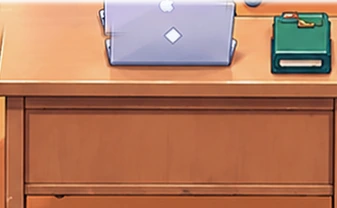
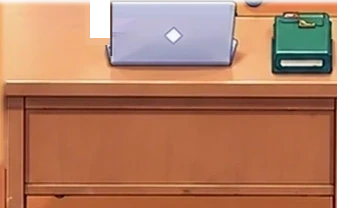
🖥 선별팀 중복 노트북 제거·직원 대화창 결재 1·2·3 선택지/바로가기·캡틴 실시간 상태 표시 배지 추가

diff --git a/dashboard/static/office-anime/office-anime.js b/dashboard/static/office-anime/office-anime.js
@@ -81,7 +81,7 @@
       im.onerror = () => res();
       im.src = url;
     });
-    const jobs = [load(imgs, 'bg', '/static/office-anime/assets/bg-office.webp?v=hq4k5')];
+    const jobs = [load(imgs, 'bg', '/static/office-anime/assets/bg-office.webp?v=hq4k6')];
     for (const [id, cfg] of Object.entries(CHARS)) {
       imgs.walk[id] = { east: [], front: [], back: [], se: [], ne: [], greet: [], coffee: [], kick: [], water: [], clean: [], dance: [], sweep: [], brew: [], carry: [], serve: [] };
       const dirs = id === 'captain' ? ['east', 'front', 'back', 'se', 'ne', 'greet', 'coffee', 'kick']
@@ -115,7 +115,7 @@
       }
     }
     for (const p of PROPS) {
-      jobs.push(load(imgs.masks, p.key, `/static/office-anime/assets/masks/${p.key}.webp?v=hq4k`));
+      jobs.push(load(imgs.masks, p.key, `/static/office-anime/assets/masks/${p.key}.webp?v=hq4k2`));
     }
     return Promise.all(jobs).then(() => imgs);
   }
@@ -624,7 +624,8 @@
              <div class="oa-quest" data-q="${id}" hidden>!</div>
              <div class="oa-bub" data-bub="${id}" hidden></div>`
       ).join('') +
-      `<div class="oa-cap-hp" data-cap-hp title="클로드 잔여량 · 위: 5시간(녹색) / 아래: 주간(파랑)">
+      `<button type="button" class="oa-cap-status" data-cap-status title="캡틴 실시간 업무·결재 상태 (클릭 시 바로 이동)">🟢 대기 중</button>
+       <div class="oa-cap-hp" data-cap-hp title="클로드 잔여량 · 위: 5시간(녹색) / 아래: 주간(파랑)">
          <div class="oa-hp-track"><div class="oa-hp-fill h5" data-hp-5h style="width:100%"></div></div>
          <div class="oa-hp-track"><div class="oa-hp-fill wk" data-hp-wk style="width:100%"></div></div>
        </div>
@@ -634,10 +635,25 @@
          <button type="button" class="oa-cr-item i2" data-cr="coffee">☕ 커피 휴식</button>
          <button type="button" class="oa-cr-item i3" data-cr="sit">🪑 대표석 복귀</button>
        </div>`;
+    const capStatusEl = hud.querySelector('[data-cap-status]');
     const capHpEl = hud.querySelector('[data-cap-hp]');
     const capHp5h = hud.querySelector('[data-hp-5h]');
     const capHpWk = hud.querySelector('[data-hp-wk]');
     const capRingEl = hud.querySelector('[data-cap-ring]');
+    let latestOrders = [], pendingApprovals = [];
+    capStatusEl?.addEventListener('click', e => {
+      e.stopPropagation();
+      SFX.tap();
+      if (pendingApprovals.length && opts.onOpenOrder) {
+        opts.onOpenOrder(pendingApprovals[0].id);
+      } else if (pendingApprovals.length) {
+        openTalkModal('claude');
+      } else if (latestOrders.length && opts.onOpenOrder) {
+        opts.onOpenOrder(latestOrders[0].id);
+      } else {
+        setCapRing(!capRingOpen);
+      }
+    });
     let capRingOpen = false;
     let capRingOrigin = { x: 0, y: 0 };
     function setCapRing(open) {
@@ -660,6 +676,10 @@
       if (act === 'greet') playCaptainAction('greet');
       else if (act === 'coffee') playCaptainAction('coffee');
       else if (act === 'sit') sitCaptainBack();
+      else if (act === 'approval' && pendingApprovals.length) {
+        if (opts.onOpenOrder) opts.onOpenOrder(pendingApprovals[0].id);
+        else openTalkModal('claude');
+      }
       else if (act === 'newshop') {
         openTalkModal('captain');
         const inp = modal.querySelector('input[name="msg"]');
@@ -1718,11 +1738,16 @@
         }
       }
 
-      // 캡틴 머리 위 RPG HP/MP 피통 게이지 + 타원형 링 메뉴 위치 추적 (움직이면 링 자동 닫힘!)
+      // 캡틴 머리 위 RPG HP/MP 피통 게이지 + 실시간 상태 표시 배지 + 타원형 링 메뉴 위치 추적
       if (capHpEl) {
         const capStanding = (cap.mode === 'walk' || cap.mode === 'stand' || cap.mode === 'emote');
+        const hpTop = Math.max(5.0, cap.y - (capStanding ? standPct('captain') + 0.6 : 12.2));
         capHpEl.style.left = `${cap.x}%`;
-        capHpEl.style.top  = `${Math.max(1.5, cap.y - (capStanding ? standPct('captain') + 0.6 : 13.0))}%`; // 서 있을 땐 머리 위(키 16.1% + 0.6), 11-24 목에 걸리던 것 수정
+        capHpEl.style.top  = `${hpTop}%`;
+        if (capStatusEl) {
+          capStatusEl.style.left = `${cap.x}%`;
+          capStatusEl.style.top  = `${Math.max(0.8, hpTop - 4.0)}%`;
+        }
         if (capRingEl) {
           capRingEl.style.left = `${cap.x}%`;
           capRingEl.style.top  = `${Math.max(8, cap.y - (capStanding ? standPct('captain') + 1.5 : 13.5))}%`;
@@ -1893,10 +1918,72 @@
         }
       }
 
+      const escHtml = s => String(s || '').replace(/[&<>"']/g, m => ({ '&': '&amp;', '<': '&lt;', '>': '&gt;', '"': '&quot;', "'": '&#39;' }[m]));
+      const parseApprovalChoices = ord => {
+        if (!ord) return [];
+        const lastAi = [...(ord.turns || [])].reverse().find(t => t.by === 'claude')?.text || '';
+        const src = `${ord.approval || ''}\n${lastAi}`;
+        const found = [];
+        const seen = new Set();
+        // 1) "1. ...", "2) ...", "① ..." 또는 "가-1 ..." 패턴 파싱
+        for (const raw of src.split(/\r?\n/)) {
+          const line = raw.trim();
+          let m = line.match(/^(?:([1-4])[.)]|([①②③④]))\s+(.{2,60})/);
+          if (m) {
+            const circ = { '①': '1', '②': '2', '③': '3', '④': '4' };
+            const num = m[1] || circ[m[2]];
+            const lbl = m[3].replace(/\*\*/g, '').trim().slice(0, 34);
+            if (!seen.has(num)) { seen.add(num); found.push({ num, label: lbl, replyText: `${num}번으로 진행해 주세요 (${lbl})`, approve: false }); }
+            continue;
+          }
+          m = line.match(/^([가나다라]-[1-4])[.:)\s]+(.{2,60})/);
+          if (m && found.length < 4) {
+            const key = m[1], lbl = m[2].replace(/\*\*/g, '').trim().slice(0, 30);
+            if (!seen.has(key)) { seen.add(key); found.push({ num: String(found.length + 1), label: `${key} ${lbl}`, replyText: key, approve: false }); }
+          }
+        }
+        if (found.length >= 2) return found.slice(0, 4);
+        // 2) 번호 선택지가 따로 없으면 기본 1·2·3 결재 선택지 제공
+        const isDeployOnly = !ord.approval && ord.deploy?.length && ord.deployState !== 'done';
+        return [
+          isDeployOnly
+            ? { num: '1', label: '배포 확정 창 바로 열기', action: 'openOrder' }
+            : { num: '1', label: '✅ 확정 진행 (승인)', replyText: '확정합니다. 진행해 주세요.', approve: true },
+          { num: '2', label: '✏ 수정 요청 (직접 입력)', action: 'edit' },
+          { num: '3', label: '📋 결재 내용 자세히 보기', action: 'openOrder' },
+        ];
+      };
+
+      const OA_TO_DASH = {
+        captain: 'captain', claude: 'claude', finder: 'finder', agy: 'agy',
+        reader: 'menu-reader', inspector: 'codex', auditor: 'reviewer',
+        translator: 'polisher', staffing: 'staffing', sorter: 'sorting'
+      };
+      const dashId = OA_TO_DASH[hit] || hit;
+      // 이 직원에게 걸려 있는 결재 대기 건 (비서실장/캡틴은 첫 결재 건, 다른 직원은 본인 참여 결재 건)
+      const npcAppr = pendingApprovals.find(o => (hit === 'claude' || hit === 'captain') || (o.worked || []).includes(dashId))
+        || (hit === 'claude' ? pendingApprovals[0] : null);
+      const apprChoices = npcAppr ? parseApprovalChoices(npcAppr) : [];
+      const apprHtml = npcAppr ? `
+        <div class="oa-m-appr">
+          <div class="oa-appr-head">
+            <span class="oa-appr-badge">🔔 결재 대기</span>
+            <strong class="oa-appr-title">${escHtml((npcAppr.title || npcAppr.text || '결재 건').slice(0, 26))}</strong>
+            <button type="button" class="oa-appr-go" data-open-order="${escHtml(npcAppr.id)}">📋 결재 내용</button>
+          </div>
+          ${npcAppr.approval ? `<p class="oa-appr-desc">${escHtml(npcAppr.approval.slice(0, 95))}</p>` : (npcAppr.deploy?.length ? `<p class="oa-appr-desc">배포 대기: ${escHtml(npcAppr.deploy.join(', '))}</p>` : '')}
+          <div class="oa-appr-choices">
+            ${apprChoices.map((ch, idx) => `<button type="button" class="oa-appr-opt" data-appr-idx="${idx}"><span class="oa-appr-num">${escHtml(ch.num)}</span><span class="oa-appr-lbl">${escHtml(ch.label)}</span></button>`).join('')}
+          </div>
+        </div>` : '';
+
+      const fallbackOrder = npcAppr || latestOrders.find(o => (o.worked || []).includes(dashId)) || latestOrders[0];
+      const orderBtn = (opts.onOpenOrder && fallbackOrder)
+        ? `<button type="button" class="oa-q-btn appr-link" data-open-order="${escHtml(fallbackOrder.id)}">📋 ${npcAppr ? '결재 내용 보기' : '최근 결재·지시 보기'}</button>` : '';
       const detailBtn = opts.onOpenDetail
-        ? `<button type="button" class="oa-q-btn detail" data-open-detail>📋 상세 패널 열기</button>` : '';
+        ? `<button type="button" class="oa-q-btn detail" data-open-detail>👤 직원 상세</button>` : '';
       const q = activeQuests[hit];
-      const questHtml = q ? `
+      const questHtml = (!npcAppr && q) ? `
         <div class="oa-m-quest ${q.type === 'ask' ? 'done' : ''}">
           <span class="oa-m-quest-txt">${q.type === 'exc' ? '❗ [퀘스트] ' : '✅ [완료 보고] '}${q.title}</span>
           <button type="button" class="oa-m-quest-btn" data-quest-act>${q.actionLabel}</button>
@@ -1912,8 +1999,10 @@
           </div>
           <button type="button" data-close>×</button>
         </div>
+        ${apprHtml}
         ${questHtml}
         <div class="oa-m-quick">
+          ${orderBtn}
           ${dcfg.quick.map(q => `<button type="button" class="oa-q-btn" data-q="${q}">${q}</button>`).join('')}
           ${detailBtn}
         </div>
@@ -1923,15 +2012,52 @@
         </form>
         <div class="oa-m-res" data-res hidden></div>`;
 
-      const OA_TO_DASH = {
-        captain: 'captain', claude: 'claude', finder: 'finder', agy: 'agy',
-        reader: 'menu-reader', inspector: 'codex', auditor: 'reviewer',
-        translator: 'polisher', staffing: 'staffing', sorter: 'sorting'
-      };
+      modal.querySelectorAll('[data-open-order]').forEach(btn => {
+        btn.addEventListener('click', () => {
+          SFX.tap();
+          const oid = btn.dataset.openOrder;
+          closeTalkModal(false);
+          if (opts.onOpenOrder && oid) opts.onOpenOrder(oid);
+          else if (opts.onOpenDetail) opts.onOpenDetail(dashId);
+        });
+      });
+      modal.querySelectorAll('[data-appr-idx]').forEach(btn => {
+        btn.addEventListener('click', async () => {
+          const ch = apprChoices[Number(btn.dataset.apprIdx)];
+          if (!ch || !npcAppr) return;
+          if (ch.action === 'openOrder') {
+            SFX.tap();
+            closeTalkModal(false);
+            if (opts.onOpenOrder) opts.onOpenOrder(npcAppr.id);
+            return;
+          }
+          if (ch.action === 'edit') {
+            SFX.tap();
+            const inp = modal.querySelector('input[name="msg"]');
+            if (inp) { inp.value = '수정 요청: '; inp.focus(); }
+            const resEl = modal.querySelector('[data-res]');
+            if (resEl) { resEl.hidden = false; resEl.textContent = '✏ 수정할 내용을 입력하고 [지시 전달]을 눌러주세요!'; }
+            return;
+          }
+          const resEl = modal.querySelector('[data-res]');
+          if (resEl) { resEl.hidden = false; resEl.textContent = `📡 [${ch.num}번] 결재 응답을 전달하는 중…`; }
+          if (opts.onReplyOrder) {
+            const r = await opts.onReplyOrder({ id: npcAppr.id, text: ch.replyText || ch.label, approve: !!ch.approve });
+            if (r?.error) { if (resEl) resEl.textContent = `⚠ ${r.error}`; return; }
+          }
+          SFX.fanfare();
+          if (hit !== 'captain') voice(hit, 'ok', 0.25);
+          spawnBurst(n.x, n.y, '✅ 결재 완료! +100 EXP', 100);
+          n.bubble = `✅ [${ch.num}번] 결재 확인했습니다! 바로 진행합니다!`;
+          n.bubbleType = 'ok';
+          if (resEl) resEl.textContent = `✅ [${ch.num}번] "${ch.label}" 전달 완료!`;
+          setTimeout(() => closeTalkModal(true), 850);
+        });
+      });
       modal.querySelector('[data-open-detail]')?.addEventListener('click', () => {
         SFX.tap();
         closeTalkModal(false);
-        opts.onOpenDetail(OA_TO_DASH[hit] || hit);
+        opts.onOpenDetail(dashId);
       });
       modal.querySelector('[data-quest-act]')?.addEventListener('click', async () => {
         if (!q) return;
@@ -2343,10 +2469,40 @@
         }
       }
 
-      // RPG 퀘스트(! / ?) 자동 생성 (실제 대시보드 데이터 기반!)
+      // RPG 퀘스트(! / ?) 및 캡틴 실시간 상태 배지 갱신 (실제 대시보드 데이터 기반!)
+      latestOrders = orders || [];
+      pendingApprovals = latestOrders.filter(o =>
+        o.status !== 'running' && o.status !== 'stopping' &&
+        (o.approval || o.status === 'wait' || o.needAnswer || (o.deploy?.length && o.deployState !== 'done' && o.deployState !== 'running'))
+      );
+      if (capStatusEl) {
+        capStatusEl.classList.remove('st-wait', 'st-work', 'st-done');
+        if (pendingApprovals.length > 0) {
+          capStatusEl.textContent = `🔔 결재 ${pendingApprovals.length}건 대기`;
+          capStatusEl.classList.add('st-wait');
+        } else if (busy.size > 0) {
+          capStatusEl.textContent = `⚡ ${busy.size}명 작업 중`;
+          capStatusEl.classList.add('st-work');
+        } else if (done.size > 0) {
+          capStatusEl.textContent = `✅ 완료 보고 ${done.size}건`;
+          capStatusEl.classList.add('st-done');
+        } else {
+          capStatusEl.textContent = '🟢 대기 중';
+        }
+      }
+      const ringFirst = capRingEl?.querySelector('.oa-cr-item.i0');
+      if (ringFirst) {
+        if (pendingApprovals.length > 0) {
+          ringFirst.dataset.cr = 'approval';
+          ringFirst.textContent = `🔔 결재함 (${pendingApprovals.length}건)`;
+        } else {
+          ringFirst.dataset.cr = 'newshop';
+          ringFirst.textContent = '🏪 새 가게 제작';
+        }
+      }
       const nextQ = {};
       // 1) 결재 대기 또는 배포 대기 -> 비서실장 머리 위 노란 '!'
-      const waitOrder = orders.find(o => o.status === 'wait' || o.needAnswer || o.deployState === 'ready');
+      const waitOrder = pendingApprovals[0];
       if (waitOrder) {
         const wTitle = (waitOrder.title || waitOrder.text || '결재·배포 건').replace(/\s+/g, ' ').slice(0, 20);
         nextQ.claude = {

diff --git a/dashboard/static/office-anime/office-anime.css b/dashboard/static/office-anime/office-anime.css
@@ -187,6 +187,28 @@
   .oa-m-form button { padding: 4px 8px; font-size: 10px; }
   .oa-m-res { margin-top: 5px; font-size: 10.5px; }
 }
+/* 캡틴 머리 위 실시간 상태 표시 배지 (결재 대기 / 작업 중 / 완료 보고 / 대기 중) */
+.oa-cap-status { position: absolute; transform: translate(-50%, 0); z-index: 12; pointer-events: auto; cursor: pointer; padding: 1.5px 7px; border-radius: 999px; border: 1.2px solid rgba(134,239,172,0.7); background: rgba(15,23,42,0.88); color: #dcfce7; font: 800 clamp(7.5px, 0.72cqw, 9.5px)/1.25 "Malgun Gothic", sans-serif; white-space: nowrap; box-shadow: 0 2px 7px rgba(0,0,0,0.45); backdrop-filter: blur(4px); transition: transform .12s ease; }
+.oa-cap-status:hover { transform: translate(-50%, 0) scale(1.06); }
+.oa-cap-status.st-wait { background: linear-gradient(135deg, #dc2626, #f59e0b); border-color: #fef08a; color: #fff; box-shadow: 0 0 12px rgba(245,158,11,0.75); animation: oaPulse 1.3s infinite; }
+.oa-cap-status.st-work { background: linear-gradient(135deg, #0284c7, #2563eb); border-color: #7dd3fc; color: #fff; box-shadow: 0 0 10px rgba(56,189,248,0.65); }
+.oa-cap-status.st-done { background: linear-gradient(135deg, #16a34a, #059669); border-color: #86efac; color: #fff; }
+
+/* 직원 대화창 안 결재 카드 + 1·2·3 객관식 선택지 + 결재 내용 바로가기 */
+.oa-m-appr { margin-top: 8px; padding: 8px 10px; border-radius: 10px; background: linear-gradient(135deg, rgba(245,158,11,0.18), rgba(234,88,12,0.14)); border: 1.5px solid rgba(250,204,21,0.75); }
+.oa-appr-head { display: flex; align-items: center; gap: 6px; flex-wrap: wrap; }
+.oa-appr-badge { padding: 1.5px 6px; border-radius: 6px; background: #f59e0b; color: #111827; font: 900 10px/1.2 "Malgun Gothic", sans-serif; flex-shrink: 0; }
+.oa-appr-title { flex: 1; min-width: 90px; color: #fef08a; font: 800 11.5px/1.25 "Malgun Gothic", sans-serif; overflow: hidden; text-overflow: ellipsis; white-space: nowrap; }
+.oa-appr-go { padding: 3px 8px; border-radius: 7px; border: 1px solid rgba(253,224,71,0.75); background: rgba(15,23,42,0.85); color: #fef08a; font: 800 10.5px/1.2 "Malgun Gothic", sans-serif; cursor: pointer; flex-shrink: 0; }
+.oa-appr-go:hover { background: #facc15; color: #111827; }
+.oa-appr-desc { margin: 5px 0 6px; color: #f8fafc; font: 600 11px/1.35 "Malgun Gothic", sans-serif; display: -webkit-box; -webkit-line-clamp: 2; -webkit-box-orient: vertical; overflow: hidden; }
+.oa-appr-choices { display: flex; flex-direction: column; gap: 4px; }
+.oa-appr-opt { display: flex; align-items: center; gap: 7px; width: 100%; text-align: left; padding: 5px 8px; border-radius: 8px; border: 1px solid rgba(253,224,71,0.45); background: rgba(15,23,42,0.78); color: #f8fafc; cursor: pointer; transition: background .12s, transform .1s, border-color .12s; }
+.oa-appr-opt:hover { background: rgba(250,204,21,0.22); border-color: #fde047; transform: translateX(2px); }
+.oa-appr-num { display: inline-flex; align-items: center; justify-content: center; width: 18px; height: 18px; border-radius: 50%; background: #facc15; color: #111827; font: 900 10.5px/1 "Malgun Gothic", sans-serif; flex-shrink: 0; }
+.oa-appr-lbl { font: 700 11px/1.25 "Malgun Gothic", sans-serif; color: #fff; }
+.oa-q-btn.appr-link { background: linear-gradient(135deg, rgba(245,158,11,0.28), rgba(234,88,12,0.24)); border-color: rgba(250,204,21,0.75); color: #fef08a; font-weight: 800; }
+
 /* 화면(회전 포함) 실제 폭이 아주 좁을 때만 넓게 — 가로 회전 전체화면은 여기에 안 걸림 */
 @container (max-width: 520px) {
   .oa-modal { width: 88%; min-width: 0; }

diff --git a/dashboard/static/app.js b/dashboard/static/app.js
@@ -182,6 +182,19 @@ function mountOfficeGame() {
       autoDemo: false,
       getInfo: gameNpcInfo,
       onOpenDetail: id => openPanel(id),
+      onOpenOrder: id => {
+        if (!id) return;
+        if (document.fullscreenElement) document.exitFullscreen?.().catch(() => {});
+        openPanel('order:' + id);
+      },
+      onReplyOrder: async ({ id, text = '', approve = false }) => {
+        if (!id) return { error: '결재 대상 ID가 없습니다.' };
+        const r = await post('/api/order/reply', { id, text, approve, when: '' }).catch(() => ({ error: '대시보드 서버에 닿지 않았어요.' }));
+        if (r.error) return r;
+        toast(approve ? '결재를 확정했습니다. 다음 단계를 진행해요.' : '결재 답변을 전달했습니다.');
+        await loadOrders();
+        return r;
+      },
       onMarkSeen: async id => {
         if (!id) return;
         await post('/api/order/seen', { id });

diff --git a/dashboard/static/index.html b/dashboard/static/index.html
@@ -7,7 +7,7 @@
 <link rel="stylesheet" href="/static/style.css?v=chat2">
 <link rel="stylesheet" href="/static/builder.css">
 <link rel="stylesheet" href="/static/sales.css">
-<link rel="stylesheet" href="/static/office-anime/office-anime.css?v=23">
+<link rel="stylesheet" href="/static/office-anime/office-anime.css?v=24">
 </head>
 <body>
 <header class="top">
@@ -108,8 +108,8 @@
 <div class="toast" id="toast"></div>
 <script src="/static/rooms/new/tiles.js"></script>
 <script src="/static/rooms/new/routes.js"></script>
-<script src="/static/office-anime/office-anime.js?v=82"></script>
-<script src="/static/app.js?v=anime5"></script>
+<script src="/static/office-anime/office-anime.js?v=83"></script>
+<script src="/static/app.js?v=anime6"></script>
 <script src="/static/builder.js"></script>
 <script src="/static/sales.js"></script>
 </body>

diff --git a/docs/dashboard.md b/docs/dashboard.md
@@ -243,7 +243,7 @@
   - **배경 4K화(11-24 오후, 캡틴 가-1)**: 지금 배경을 3×3 겹침 9조각(`dashboard/office-map-work/tiles`, 위치 `boxes.json`)으로 잘라 ChatGPT로 조각별 고화질 재그림(`new/`) → SIFT 아핀으로 원래 자리에 맞춤(`affine.json`) → 겹친 구역은 섞지 않고 두 그림이 가장 비슷한 선으로 자름(DP 이음선, 섞으면 반투명 겹침이 생김) → 하늘방 윗벽만 6번 조각이 24px 높아 그 구역만 내림. 결과 `bg-office.webp` 3996×2248(1.2MB). 책상·의자 14개는 4K 기준 6px 안이라 **CHARS·BLOCKERS·PROPS 좌표(%) 그대로**, 가림 그림만 새 배경에서 다시 오림(옛 투명 모양 재사용). 광류(optical flow)로 휘게 맞추는 방법은 벽·바닥이 구불어져 버림. 스크립트 `dashboard/office-map-work/scripts/`(작업 폴더는 커밋 안 함). PC 1280·폰 375 확인, **미확인**: 앉은 모습 가까이 보기.
   - 전 캐릭터 12프레임 투명 스프라이트(`assets/walk/`, `rembg isnet-anime` 추출) + 10명 고화질 초상화(`assets/portraits/*.webp`). **주의**: `reader`(자료 해석 비서)는 `asset: 'auditor'`, `auditor`(데이터 감사관)는 `asset: 'reader'`로 외형이 맞바뀌어 있으므로 초상화·스프라이트 파일명 매핑 시 반드시 유지한다.
   - **캡틴 8방향 조작**: WASD/방향키/바닥 클릭 A* 이동/모바일 엄지 조이스틱. 앞대각선(`captain-se-1..12`)·뒤대각선(`captain-ne-1..12`) 24프레임 + 좌우 반전으로 8방향 완성 + `1` 인사(`greet`) / `2` 커피(`coffee`) / `E` 착석. 입력창·한글 조합·대화창·상세패널 열림 시 키 조작 완전 차단.
-  - **전용 생활·이벤트 동작**: 선별팀 팀장 화분 물주기(`sorter-water-1..12`, 좌/우 화분 밀착 `[32.4,37.4]`/`[67.7,37.4]`), 인력 공급팀 팀장 캡틴 책상 먼지 닦기(`staffing-clean-1..12`, `[43.8,22.2]`), 운영 감찰관 복도 빗자루 청소(`inspector-sweep-1..12`, 화분·비서실장 책상 사이 `[37.0,41.2]`/`[63.0,41.2]`), 비서실장·자료 해석 비서 합동 아이돌 댄스(`claude-dance-1..12`, `auditor-dance-1..12`, `[💃 댄스]` 버튼 + 6곳 분산 무대(11-24 맨 아래 나무 바닥 추가)), **운영 감찰관 솔로 아이돌 댄스**(11-24: `inspector-dance-1..36.webp` 36프레임 + 전용 127 BPM BGM `dance-inspector.ogg/.m4a` 17.35초 칼박 싱크 — 인트로 2.2s + 메인 힙바운스 6.6s×2 + 더블 엄지척 엔딩 1.95s, 별도 `[👍 솔로]` 토글 버튼, `v=82`/`css?v=23`). 좌표는 11-24 새 배경 기준.
+  - **전용 생활·이벤트 동작**: 선별팀 팀장 화분 물주기(`sorter-water-1..12`, 좌/우 화분 밀착 `[32.4,37.4]`/`[67.7,37.4]`), 인력 공급팀 팀장 캡틴 책상 먼지 닦기(`staffing-clean-1..12`, `[43.8,22.2]`), 운영 감찰관 복도 빗자루 청소(`inspector-sweep-1..12`, 화분·비서실장 책상 사이 `[37.0,41.2]`/`[63.0,41.2]`), 비서실장·자료 해석 비서 합동 아이돌 댄스(`claude-dance-1..12`, `auditor-dance-1..12`, `[💃 댄스]` 버튼 + 6곳 분산 무대(11-24 맨 아래 나무 바닥 추가)), **운영 감찰관 솔로 아이돌 댄스**(11-24: `inspector-dance-1..36.webp` 36프레임 + 전용 127 BPM BGM `dance-inspector.ogg/.m4a` 17.35초 칼박 싱크 — 인트로 2.2s + 메인 힙바운스 6.6s×2 + 더블 엄지척 엔딩 1.95s, 별도 `[👍 솔로]` 토글 버튼, `v=82`/`css?v=23`), **선별팀 노트북 겹침 수정·직원 결재 1·2·3 선택지·캡틴 상태 배지**(11-24: `bg-office.webp?v=hq4k6`·`orange-desk.webp?v=hq4k2` 뒤쪽 중복 노트북 제거, 직원 대화창 안 결재 대기 시 `1·2·3` 번호 선택지 즉시 응답(`onReplyOrder`) + `[📋 결재 내용 보기]`(`onOpenOrder`), 캡틴 머리 위 실시간 상태 배지(`.oa-cap-status`: 결재 대기/작업 중/완료 보고/대기 중), `v=83`/`css?v=24`/`app.js?v=anime6`). 좌표는 11-24 새 배경 기준.
   - **길찾기·보폭·호출 규칙**: 모든 이동은 `BLOCKERS` 기반 1.5% 격자 A*(`findPath`, 직선 벽 통과 폴백 금지). 벽 상자는 폭 1.5% 이상(얇으면 격자가 건너뜀), 좁은 출입 틈엔 격자 줄(1.5의 배수: 73.5·78 등)이 하나 이상 들어가게 둔다(11-24 새 배경). NPC 이동 속도는 `4.2`(보폭 `stride 1.65`)로 바닥 미끄러짐 제거. 직원 클릭 시 무조건 캡틴 앞(`getSpotNearCaptain()`)으로 걸어오고, 대화창을 닫으면 자기 자리로 A* 안전 복귀(`ef5ac55`).
 - **2) RPG·모바일 전체화면·사운드**:
   - 실시간 데이터 연동(`syncReal`): 작업 중/완료 배지, RPG 퀘스트 마커(`!`/`?`), 현장 결재·새 가게 제작 지시 템플릿, 황금 파티클·`+EXP`·레벨 HUD(`Lv.N 캡틴 · N호점`).
